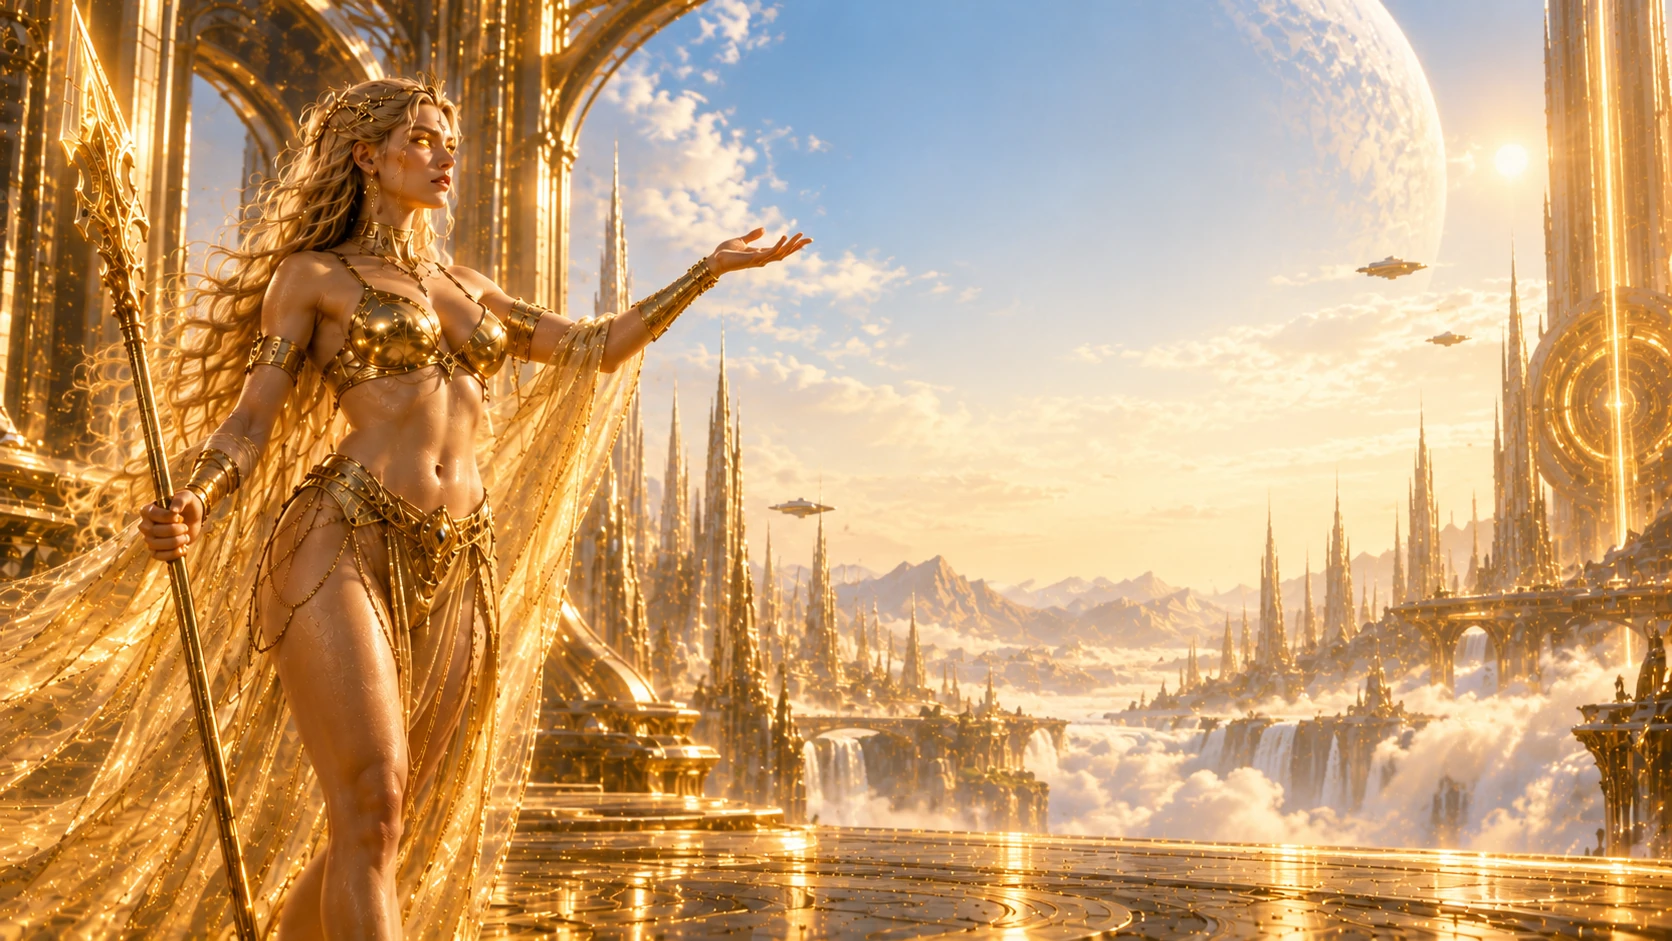
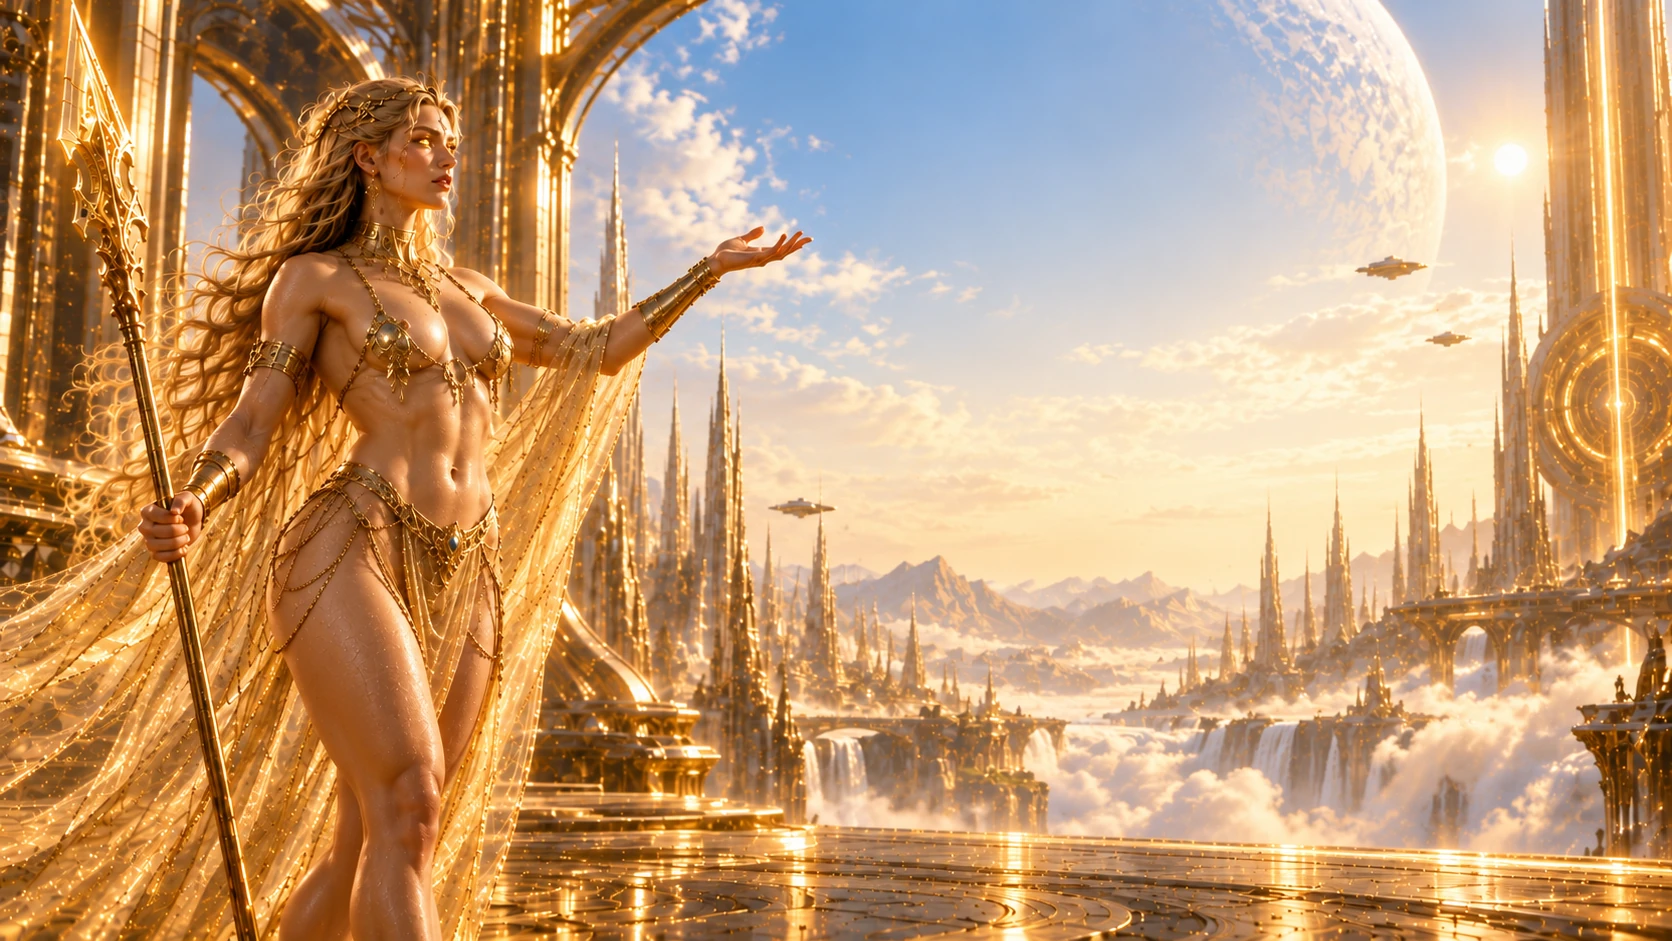
Replace Queen Sirius artwork

diff --git a/prediction3/sirius-guardian.css b/prediction3/sirius-guardian.css
@@ -11,7 +11,7 @@ body[data-page="prediction3"] .p3-sirius-head{
   isolation:isolate;
   background:
     linear-gradient(90deg,rgba(8,10,8,.04) 0%,rgba(8,10,8,.08) 35%,rgba(8,10,8,.46) 50%,rgba(8,10,8,.82) 67%,rgba(8,10,8,.94) 100%),
-    url('./queen-sirius-guardian.webp') !important;
+    url('./queen-sirius-guardian.webp?v=20260906-120914') !important;
   background-size:cover !important;
   background-position:center 18% !important;
   border-bottom-color:rgba(242,207,114,.42);
@@ -108,7 +108,7 @@ body[data-page="prediction3"] .p3-sirius-card .p3-final-heading span{color:#e5bf
     padding:178px 12px 72px;
     background:
       linear-gradient(180deg,rgba(8,10,8,.02) 0%,rgba(8,10,8,.06) 34%,rgba(8,10,8,.76) 62%,rgba(8,10,8,.96) 100%),
-      url('./queen-sirius-guardian.webp') !important;
+      url('./queen-sirius-guardian.webp?v=20260906-120914') !important;
     background-position:38% center !important;
     background-size:cover !important;
   }

diff --git a/prediction3/index.html b/prediction3/index.html
@@ -27,7 +27,7 @@
   <link rel="stylesheet" href="square-corners.css?v=20260905-v2">
   <link rel="stylesheet" href="no-icons.css?v=20260905-v1">
   <link rel="stylesheet" href="locked-picks-ui.css?v=20260905-p3-locked-picks-v1">
-  <link rel="stylesheet" href="sirius-guardian.css?v=20260906-sirius-guardian-v5">
+  <link rel="stylesheet" href="sirius-guardian.css?v=20260906-sirius-guardian-v6">
 </head>
 <body data-page="prediction3">
   <header class="topbar">
